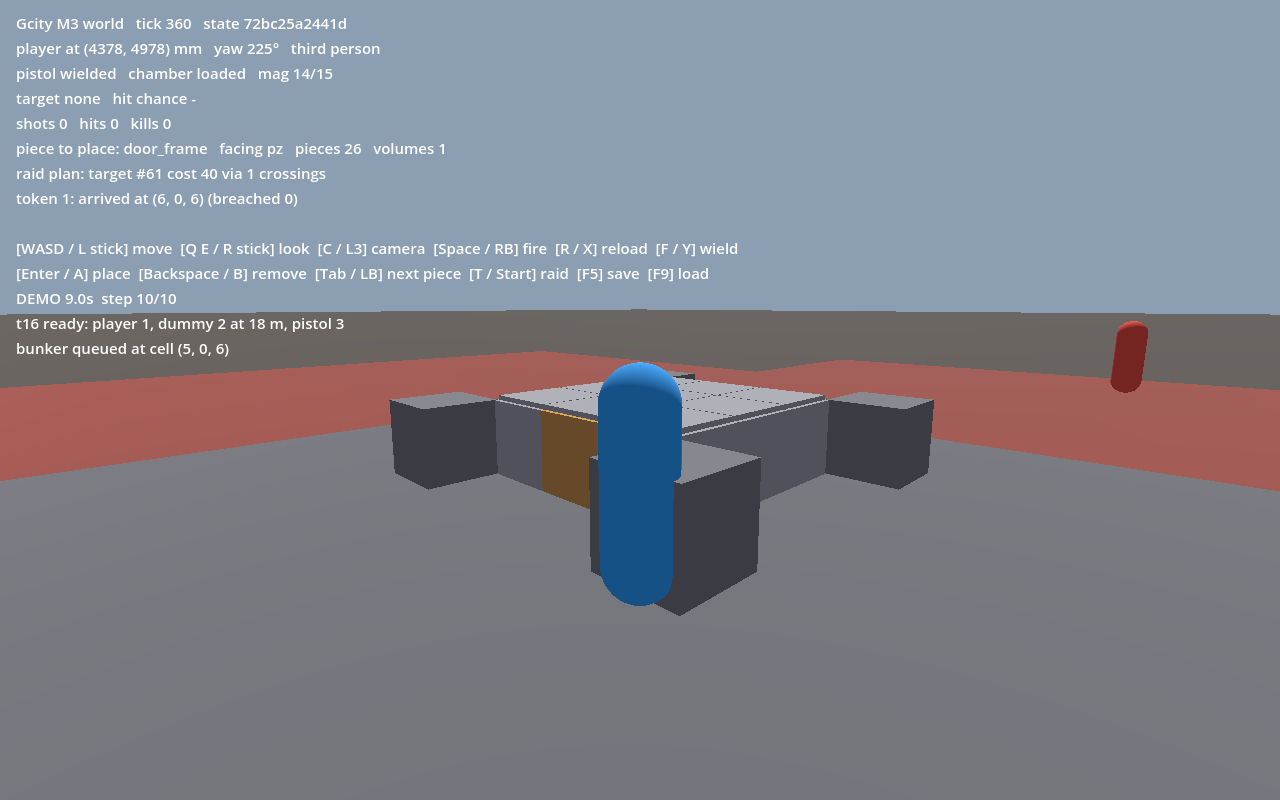
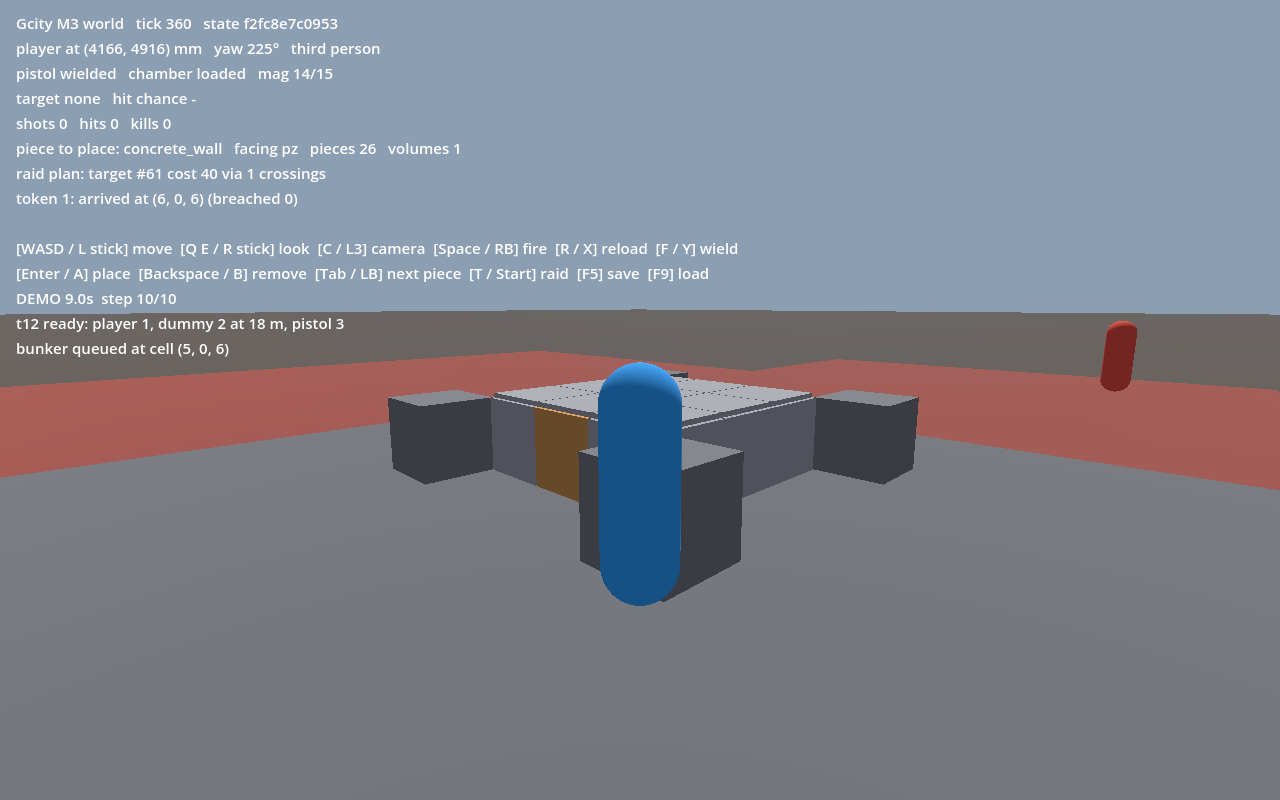
M3 client fixes and G3 evidence package
Demo clocks in the plot and world views run on sim ticks and are built
without lambda capture (a captured clock scheduled every action at once
under software rendering); the world panel shows dispatch, rejection and
blocked counts; the plot view demo builds the bunker and spawns a raid so
its overlay shows volumes, the plan and the token. docs/gates/M3-gate.md
with the verification report, a fourteen-step demo script (steps 7-14 on
the Deck), the debt and deviation log, and the P5 feel-notes section for
CEOGG. Ledger, README and spec status updated.

Claude-Session: https://claude.ai/code/session_01CwFmxaS9Kz2J6ZuesAfkz4

diff --git a/docs/gates/M3-gate.md b/docs/gates/M3-gate.md
@@ -1,0 +1,181 @@
+# G3 — M3 Portal graph + build system (+ claim set P): gate evidence package
+
+Milestone: M3 — Portal graph + build system, with claim set P (design doc §16;
+standards §11 row G3; `docs/specs/M3-portal-graph-build-system.md`, approved 2026-09-21)
+Submitted: 2026-09-21 by Claude Code, on branch `claude/relaxed-franklin-hs29t3`,
+commits `a82ed10` … `HEAD`
+Outcome: _pending review_ — **needs the G3 Deck run and feel notes from CEOGG (P5)**
+
+---
+
+## 1. Specification
+
+See the spec. Fifteen claims plus claim set P (P1–P5); all implemented except P5,
+which is the approver's Deck run recorded in §7. Deviations recorded in §4: the
+`target_value` content kind was folded into the piece's `value` field, support and
+the portal graph recompute over the whole structure rather than a dirty set, and
+tokens re-plan on every build change (a strengthening the killbox fixture depends on).
+
+| Claims | Delivered by | Commit |
+|---|---|---|
+| 1–4 pieces, grid, placement, support | `sim/land/build_system.gd`, `piece_kind` / `material` / `tool_class` / `build_piece` content and schemas, `piece_hp` / `breach_noise` stats | `a82ed10` |
+| 5–8 flood fill, edges, cheapest path, raid plan | `sim/nav/portal_graph.gd` | `3eaee7e` |
+| 9 the dumb raid token | `sim/agents/raid_token_system.gd` | `9623013` |
+| 10 cost measured | §2, "Rebuild cost" | this package |
+| 11 save round trip | the M2 property test's stream now includes build, move and raid commands through the assembled sim; `restore()` on every new system | `a82ed10` … `9623013` |
+| 12 fixtures | `tests/replay/m3-bunker.json`, `m3-killbox.json`, `m3-walk.json` (P3) and `tests/sim/test_m3_fixtures.gd` | client commit |
+| 13 schemas | four new schemas; cycles, unfitting kinds and missing roots refused at assembly | `a82ed10` |
+| 14 client | `client/plot_view.gd` overlay (volumes, pieces, plan, tokens) and `client/world_view.gd` (placement, removal, raid) | client commit |
+| 15 corpus | 21 new hostile cases; the partition property is the build fuzz target | `a82ed10` … `9623013` |
+| P1 movement | `sim/agents/movement_system.gd`, positions on actors | `9623013` |
+| P2 grey-box 3D | `client/world_view.gd` + scene, input map with stick axes | client commit |
+| P3 walk fixture | `tests/replay/m3-walk.json` | client commit |
+| P4 feel: pistol from the 3D view, distance-based hit roll | `sim/items/combat_system.gd` (one line), `client/world_view.gd`, metamorphic test in `tests/agents/test_movement_system.gd` | `9623013` |
+| Q4 extension exercise | `content/material/reinforced_concrete.json`, `content/tool_class/breacher.json`, `content/build_piece/concrete_wall.json`, `tests/land/test_extension_building.gd` | extension commit |
+
+## 2. Verification report
+
+Produced on the development container (Linux x86_64, Godot 4.6.1-stable, Python
+3.11), **not on Steam Deck hardware**; the Deck run is §7. Reproduce with `tools/test.sh`.
+
+### Fitness functions
+
+| Check | Result |
+|---|---|
+| Python tool tests | 37 tests, OK |
+| `tools/check_dependencies.py` | clean |
+| `tools/validate_content.py` | clean: 70 content entries across 19 kinds |
+
+### Static analysis
+
+Every `.gd` file passes `--check-only` with warnings as errors. The analyzer rejected
+19 Variant-to-typed argument passes during M3; each was rewritten with a typed local.
+
+### Headless test suite
+
+| Suite | Tests | What it proves |
+|---|---|---|
+| `tests/land/test_build_system.gd` | 8 | cells and canonical faces; chains; rejections (air, wrong orientation, occupied face from either side, foundation off the ground, unknown actor); build rights and violations; span limit; collapse on foundation removal with one event; payload contracts; **10 000-step random place/remove property against a breadth-first support oracle**; restore round trip |
+| `tests/nav/test_portal_graph.gd` | 9 | empty graph; a walled room is one 9-cell volume with 21 edges; door 40, wall 1 100; cheapest path deterministic and symmetric; an open doorway merges the room into the exterior; sealed room breached at the lowest-id wall; the three metamorphic relations on the room and **over 10 000 random mutations**; raid plan picks the most valuable then cheapest target; **10 000-step partition property** (labelling consistent with faces, edges join distinct nodes, rebuild deterministic); restore rebuilds and refuses a differing saved graph |
+| `tests/agents/test_movement_system.gd` | 6 | positions from range; capped steps; walls block, doors pass, solids impassable; `enter` rights on parcel change; payload contract; **hit chance never rises with distance over 0–145 m**; **10 000-step random walk never crosses a wall** |
+| `tests/agents/test_raid_token_system.gd` | 6 | no target no token; door in four ticks with no breach; sealed room breached at the planned wall in 110 ticks; re-plan when the door vanishes; **switches to a door the player opens mid-cut**; command and restore |
+| `tests/sim/test_m3_fixtures.gd` | 3 | bunker raided through the door (26 pieces, 1 volume, 0 breached, 0 rejections); killbox (token takes the new door, 0 breached); walk through the door with the refused steps into the wall as the only rejections |
+| `tests/land/test_extension_building.gd` | 2 | every non-target piece places on its own foundation and every solid is priced by every tool; a material with more HP and noise costs at least as much under every tool |
+| M0–M2 suites | 124 | unchanged claims; the M1 actor tests use positions instead of a declared range |
+| **Total** | **158 tests, 0 failed** | `check_test_log: clean` |
+
+### Replay determinism
+
+Seven fixtures replayed in two processes each, identical and equal to the recorded
+hashes (see `tools/test.sh replay` output in the CI log for this commit). The M0–M2
+hashes moved with each new system and with the extension content, as the standards
+require; every move is in the commit that caused it.
+
+### Rebuild cost (claim 10)
+
+The 10 000-step partition property rebuilds the graph on every change of a structure
+of up to about 60 pieces in a 7×4×7 region. The whole property, including its oracle,
+runs in under 15 s on the container: under 1.5 ms per rebuild including the test's
+own checking, which is inside the §4.1 navigation row on a desktop CPU. Not a Deck
+number; G4 measures it there.
+
+### Fuzz corpora
+
+`tests/fuzz/commands/hostile_payloads.json`: 91 cases (21 new for `build.*`,
+`actor.move`, `raid.spawn`). The build fuzz target of standards §3.5 is the partition
+and support properties (random placement and removal sequences); no failing seed was
+found, so no case was added.
+
+### Screenshots
+
+- `docs/gates/screenshots/M3-world.png`: the grey-box world at 9 s into the demo: the
+  player capsule, the ground-level bunker with its door, the raid token arrived inside,
+  the dummy 18 m away, both parcels.
+- `docs/gates/screenshots/M3-plot.png`: the plot view with the bunker's volume tinted,
+  the plan's door in red, the token arrived.
+
+## 3. Demo script
+
+Steps 1–6 on any Linux x86_64 machine; steps 7–14 on the Deck (P5) from
+`tools/export.sh`'s build, sideloaded or added to the Steam client as a non-store game.
+
+1. `tools/test.sh` → `158 tests, … 0 failed`, seven `ok` replay lines, `all stages passed`.
+2. `git show --stat <extension commit>` → three content files, one test, seven fixture
+   hash lines; nothing under `sim/`, `client/` or `tools/` (Q4).
+3. Raise `hp` in `content/material/scrap_steel.json` to 4000; `tools/test.sh unit` →
+   the portal tests that assert 1 100 fail, the metamorphic tests still pass, and every
+   fixture hash moves. Revert.
+4. Set `max_span` to 1 in the same file; `tools/test.sh unit` → the span test fails at
+   the second wall; the property still holds (its oracle reads the file). Revert.
+5. `tools/screenshot.sh /tmp/w.png 9` → a PNG matching `M3-world.png` up to seed and hash.
+6. `SCENE=res://client/plot_view.tscn tools/screenshot.sh /tmp/p.png 12` → matches `M3-plot.png`.
+7. Launch. → Third-person view of the plot, the capsule, the dummy ahead. Left stick
+   walks, right stick turns, L3 toggles first person.
+8. Press Y (wield), then RB three times. → `shots 3` and hits or misses rolled at the
+   shown distance; walk closer, the shown hit chance rises.
+9. Press X (reload). → `mag 15/15` after two seconds; RB during those two seconds does
+   nothing (the pistol is busy).
+10. Tab/LB to `foundation_block`, A. → A block appears one cell ahead. Tab to
+    `wall_panel`, walk beside the block, A. → A wall hangs off it. Walk into the wall. →
+    The capsule stops; `blocked` increments.
+11. Tab to `door_frame`, place one on another face of the block; walk through it.
+12. Press Start (raid) with a crate placed inside a walled room → a yellow token
+    appears outside and, four ticks later, inside if there is a door, or after 110
+    ticks of cutting if there is not, and the wall it cut is gone.
+13. F5, quit, relaunch, F9 → the pieces, the token and your position return.
+14. Write the feel notes (§7).
+
+## 4. Debt and deviation log
+
+| # | Item | Kind | Scheduled |
+|---|---|---|---|
+| 1 | Target value lives on the piece (`build_piece.value`); no `content/target_value/` kind. One field instead of a kind with one use. | deviation | closed |
+| 2 | Support propagation and the flood fill recompute over the whole structure on every change, not a dirty set; §2 records the cost. A dirty set arrives when a Deck measurement demands it. | deviation | G4 |
+| 3 | Tokens re-plan on every build change, losing crossing progress; a player who toggles a door every tick stalls a token for free. The threat director owns raid tempo (M8). | strengthening with a known exploit | M8 |
+| 4 | Movement keeps y = 0: no stairs, floors as walking surfaces, or falling. Roof panels are portal edges, not floors to stand on. | scope (spec P1 assumption) | M4 or M6 |
+| 5 | Movement is unphysical: no capsule radius, no sliding along walls; a step is refused as a whole. Feel item for the Deck run. | scope | after feel notes |
+| 6 | Client-side aim: the target is the nearest living actor within a 15° cone of the camera; the sim rolls the hit from distance only. Perception and geometry (M4, M6) replace it. | scope | M4 |
+| 7 | The world view's setup places the player and dummy with `actor.spawn`'s range (x axis); the client does not write positions. | note | none |
+| 8 | Demo clocks in all views run on sim ticks, not wall time, after a defect in this milestone: wall-clock demos outran the sim under software rendering, and a GDScript lambda captured its clock by value so every action was scheduled at once. The M1 range demo still uses wall time. | defect fixed; M1 residue | M4 (touches `client/main.gd`) |
+| 9 | The plot view overlay draws ground-level pieces only (y = 0); the 3D view shows all. | scope | when needed |
+| 10 | `raid.spawn`, `build.*` from any actor id, `actor.move` for any actor: debug-class like the M1/M2 spawn commands; gated with G1 debt 4. | security | before co-op |
+| 11 | No Deck run yet (P5). This package is incomplete until CEOGG's run and feel notes are in §7. | external | G3 review |
+| 12 | Mutation testing not run; target G6. Rebuild cost is a container number, not a Deck one. | scope | G6 / G4 |
+
+## 5. The four standing questions
+
+**Q1 — Does it function?** Yes on the container: 158 tests, five 10 000-case
+properties for the new systems, three new fixtures reproduced across processes, the
+metamorphic relations of the spec all held. The Deck run is outstanding.
+
+**Q2 — Is it secure?** New untrusted inputs are four content kinds (schema-checked at
+build; cycles, orientation and root rules checked at assembly) and three command
+kinds (exact payloads, actor existence, rights, 21 corpus cases). Save restore
+rebuilds the portal graph and refuses a saved graph the pieces do not produce. No new
+dependency.
+
+**Q3 — Is it complete?** No stubs or `TODO`s; every refusal returns an `Error` or a
+false with the state untouched. Debt items are scheduled.
+
+**Q4 — Is it expandable?** Performed: the extension commit adds a material, a tool
+class and a wall piece with zero changes under `sim/`, `client/` or `tools/`; the
+walking test proves every solid piece is priced by every tool and the monotone
+relation holds. `docs/extending-building.md` records the procedure.
+
+## 6. Sign-off
+
+Approver: CEOGG
+Date:
+Outcome: ☐ Accepted   ☐ Accepted with conditions (list below)   ☐ Rejected
+Conditions:
+
+## 7. Deck run and feel notes (P5) — to be filled by CEOGG
+
+Build: `tools/export.sh` output, installed via: ☐ sideload  ☐ Steam client (non-store)
+Date:                    Battery / plugged:
+
+| # | What felt wrong or right | Number changed (file, value) or debt item |
+|---|---|---|
+| 1 | | |
+| 2 | | |
+| 3 | | |

diff --git a/README.md b/README.md
@@ -14,11 +14,12 @@ test that would fail if it were false.
 
 ## Status
 
-**M2 — Land authority + starter plot**, evidence package submitted (`docs/gates/M2-gate.md`).
-G0 and G1 are accepted. The sim has a total `rights_at()` over polygon parcels, a
-container with modules on a shared power and heat budget through the stat resolver,
-and a validated save format round-tripped as a property. The main scene is the plot
-view; the M1 range is `client/main.tscn`.
+**M3 — Portal graph + build system + grey-box 3D**, evidence package submitted
+(`docs/gates/M3-gate.md`); G0–G2 accepted. Build pieces on a 1 m grid with support
+propagation, a portal graph where every wall is a priced edge, raid planning and a dumb
+raid token, actor movement, and a walkable grey-box 3D world with the M1 pistol. The
+main scene is the world view; the plot view is `client/plot_view.tscn` and the M1
+range `client/main.tscn`.
 
 ## Running
 

diff --git a/docs/gates/README.md b/docs/gates/README.md
@@ -13,5 +13,5 @@ scheduled into a named milestone), or **Rejected**.
 | G0 | M0 — Skeleton | **Accepted** 2026-09-20 by CEOGG |
 | G1 | M1 — Stat resolver + one pistol | **Accepted** 2026-09-20 by CEOGG |
 | G2 | M2 — Land authority + starter plot | **Accepted** 2026-09-21 by CEOGG |
-| G3 | M3 — Portal graph + build system | spec approved 2026-09-21 with claim set P (`docs/specs/M3-portal-graph-build-system.md`); in progress |
+| G3 | M3 — Portal graph + build system | evidence package submitted 2026-09-21 (`M3-gate.md`), awaiting the Deck run (P5) and review |
 | G4–G8 | see `docs/gcity-engineering-standards.md` §11 | not started |

diff --git a/docs/specs/M3-portal-graph-build-system.md b/docs/specs/M3-portal-graph-build-system.md
@@ -1,7 +1,7 @@
 # M3 — Portal graph + build system: specification
 
 Milestone M3 of `docs/gcity-design.md` §16, in the terms of that document. Written
-before implementation (standards §2.1, §10.2). Status: **approved with claim set P and the feel claim P4** (CEOGG, 2026-09-21).
+before implementation (standards §2.1, §10.2). Status: **approved with claim set P and the feel claim P4** (CEOGG, 2026-09-21); implemented, G3 package in `docs/gates/M3-gate.md`.
 
 **Preconditions.** G2 is signed (it is). No ADR blocks M3: ADR-003 (volumetric
 terrain) is accepted and M3 builds on flat parcels, not terrain. One ADR-003
